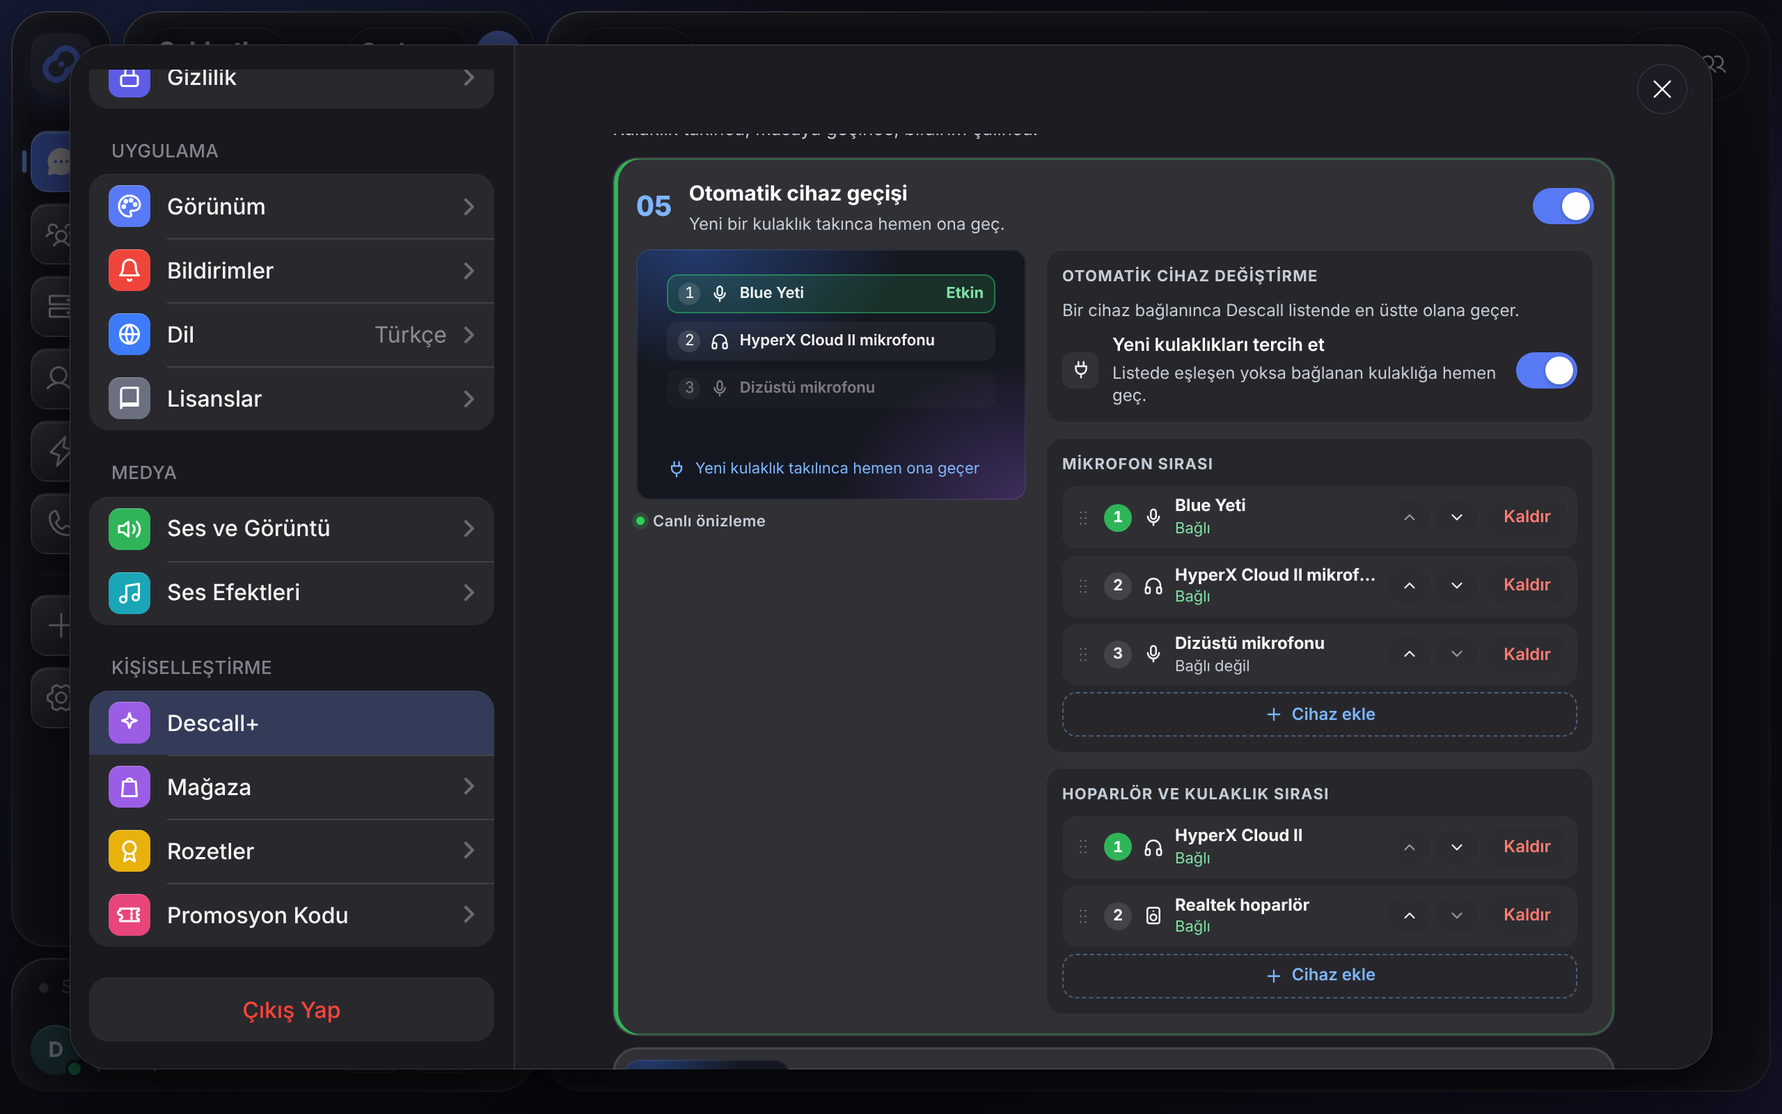
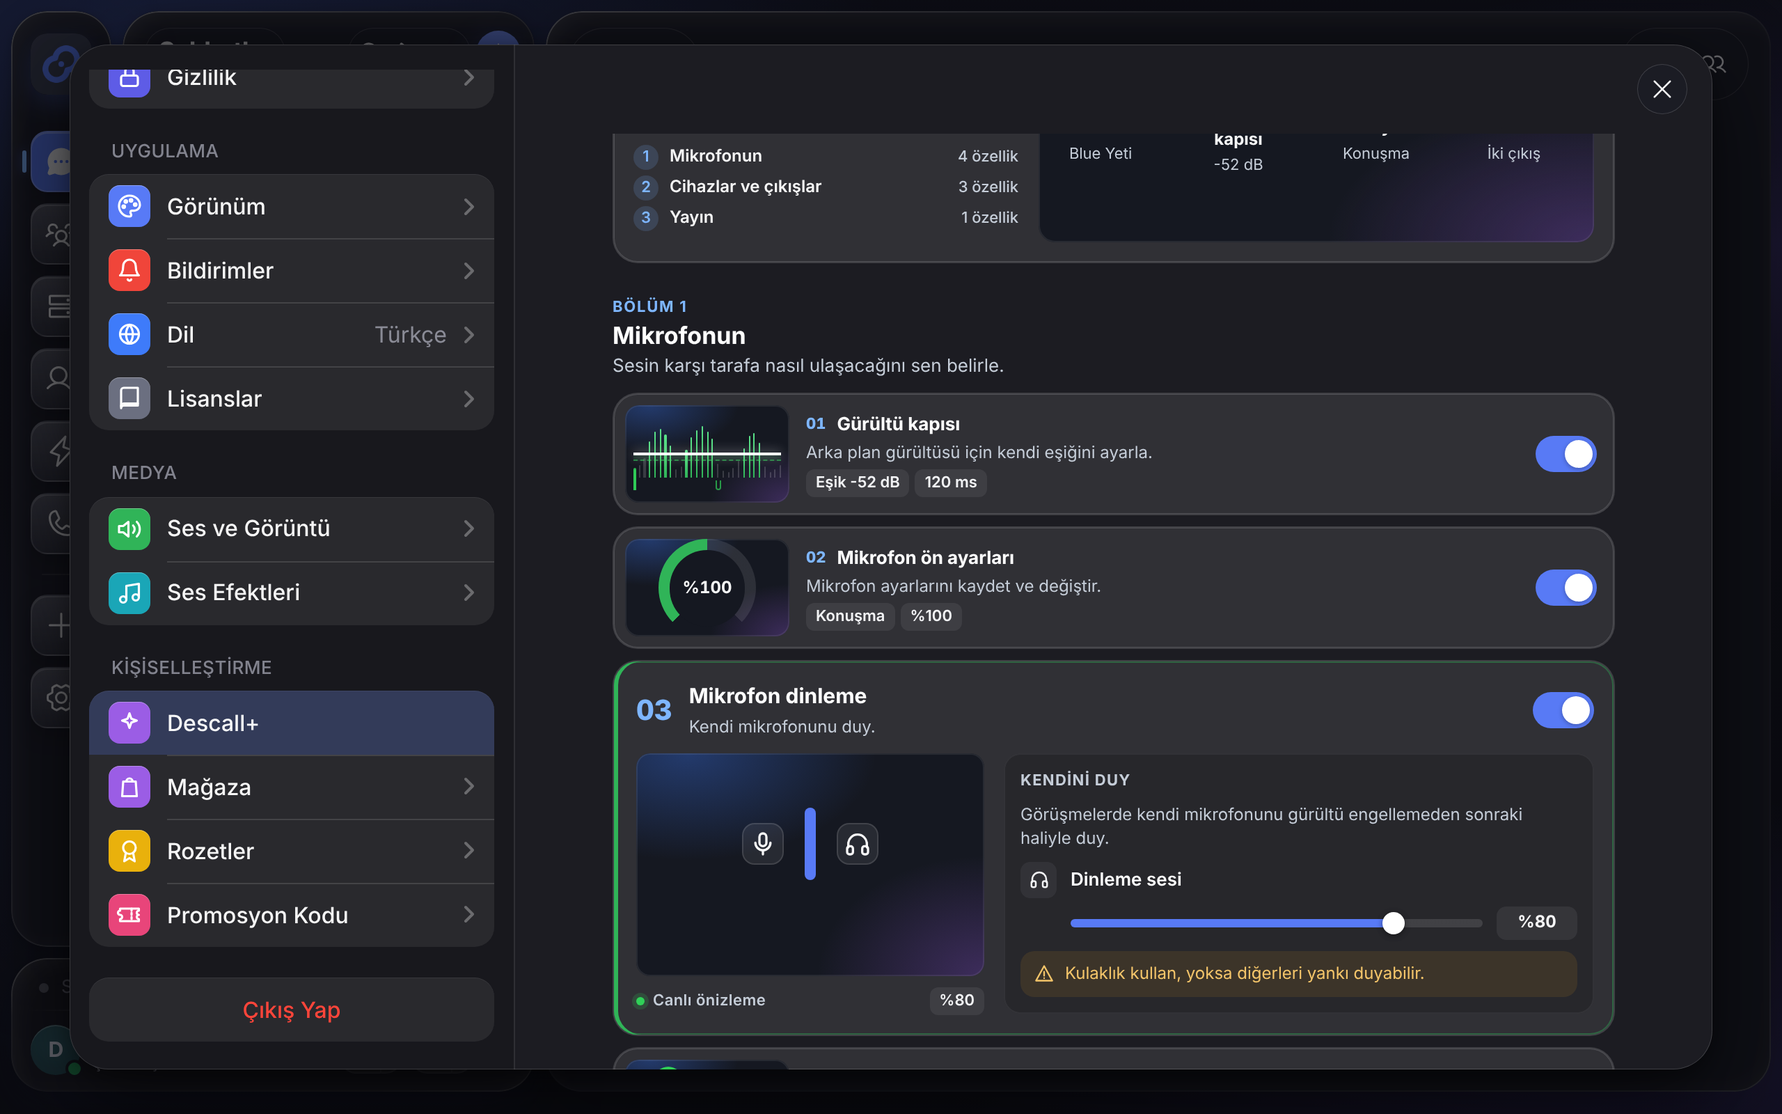
Category page drafts: work in progress
Claude-Session: https://claude.ai/code/session_016gMrsdLKA7sFZHPfPUvafD

diff --git a/docs/design/premium-settings/category-drafts/drafts-inject.js b/docs/design/premium-settings/category-drafts/drafts-inject.js
@@ -124,9 +124,9 @@
     custom_layouts: { enabled: true, active: 'oyun' },
     noise_gate: { enabled: true, thresholdDb: -52, hysteresisDb: 10, holdMs: 120, testing: true },
     mic_presets: { enabled: true, gain: 100, active: 'voice' },
-    mic_monitor: { enabled: false, volume: 80 },
+    mic_monitor: { enabled: true, volume: 80 },
     voice_activity_monitor: { enabled: true },
-    auto_device_switch: { enabled: true, headsetFirst: true },
+    auto_device_switch: { enabled: false, headsetFirst: true },
     audio_routing: { enabled: true, callOutput: 'hyperx', notificationOutput: 'realtek' },
     audio_device_profiles: { enabled: true, active: 'masa', newInput: 'yeti', newOutput: 'hyperx', newPreset: 'stream' },
     stream_audio_control: { enabled: true, sendVolume: 100, sendMuted: false, viewVolume: 80, viewMuted: false },
@@ -146,7 +146,7 @@
   const on = (k) => S[k].enabled;
   const tg = (k, p, val, ds) => `<button class="us-toggle${val ? ' active' : ''}" type="button" role="switch" aria-checked="${val}" data-tg="${k}.${p}" data-s="${ds || `${k}.${p}`}"><span class="us-toggle-knob"></span></button>`;
   const grp = (title, body, extra = '') => `<div class="dpc-g ${extra}"><div class="dpc-gt">${title}</div>${body}</div>`;
-  const row = (label, desc, ctrl, icon) => `<div class="dpc-r${ctrl.includes('dpc-sl') ? ' st' : ''}">${icon ? `<span class="dpc-ri">${svg(icon, 15)}</span>` : ''}<div class="dpc-rc"><b>${label}</b>${desc ? `<small>${desc}</small>` : ''}</div><div class="dpc-rx">${ctrl}</div></div>`;
+  const row = (label, desc, ctrl, icon) => `<div class="dpc-r${ctrl.includes('dpc-sl') ? ' dpc-st' : ''}">${icon ? `<span class="dpc-ri">${svg(icon, 15)}</span>` : ''}<div class="dpc-rc"><b>${label}</b>${desc ? `<small>${desc}</small>` : ''}</div><div class="dpc-rx">${ctrl}</div></div>`;
   const hint = (t, ds, tone = '') => `<p class="dpc-hint ${tone}" ${ds ? `data-s="${ds}"` : ''}>${svg(tone === 'warn' ? 'warn' : tone === 'ok' ? 'check' : 'info', 14)}<span>${t}</span></p>`;
   const btn = (label, kind = 'ghost', ds = '', icon = '') => `<button type="button" class="us-btn ${kind} sm" ${ds ? `data-s="${ds}"` : ''}>${icon ? svg(icon, 14) : ''}${label}</button>`;
   const field = (ph, ds) => `<span class="dpc-in" data-s="${ds}">${ph}</span>`;
@@ -462,7 +462,7 @@
         if (k === open) {
           return `<article class="us-card dpc-a-card is-open" data-f="${k}" data-open-card>
             <header class="dpc-a-oh">${ico(k, cat)}<div class="dpc-tt2"><b>${F[k].name}</b>${ultra(k)}<small>${F[k].desc}</small></div>${enabled(k)}<button type="button" class="dpc-x" data-open="" aria-label="Kapat">${svg('up', 16)}</button></header>
-            <div class="dpc-a-body"><div class="dpc-a-pv">${pv(k, 'lg')}${liveCap}</div>${groups(k)}</div></article>`;
+            <div class="dpc-a-body"><div class="dpc-a-pv">${pv(k, 'lg')}<div class="dpc-c-cap">${liveCap}<span class="dpc-chipline">${chips(k)}</span></div></div>${groups(k)}</div></article>`;
         }
         return `<article class="us-card dpc-a-card${on(k) ? '' : ' is-offc'}" data-f="${k}"><button type="button" class="dpc-a-hit" data-open="${k}">${pv(k, 'sm')}</button>
           <div class="dpc-a-meta"><div class="dpc-tt2"><b>${F[k].name}</b>${ultra(k)}</div>${enabled(k)}</div>
@@ -499,7 +499,7 @@
         </article>`;
       const before = keys.slice(0, keys.indexOf(open));
       const after = keys.slice(keys.indexOf(open) + 1);
-      return `<div class="dpc-c-head">${head(cat)}<span class="dpc-c-count"><b class="tnum">${keys.filter(on).length}</b>/${keys.length} özellik açık</span></div>
+      return `<div class="dpc-c-head">${head(cat)}</div>
         ${before.length ? `<div class="dpc-c-grid">${before.map(tile).join('')}</div>` : ''}${stage(open)}
         <h4 class="us-section-label dpc-c-lab">Diğer ${c.name.toLocaleLowerCase('tr')} özellikleri</h4><div class="dpc-c-grid">${after.map(tile).join('')}</div>`;
     },
@@ -516,10 +516,10 @@
           const gs = G[k](k);
           return `<article class="dpc-d-open" data-f="${k}" data-open-card>
             <div class="us-card dpc-d-hero">${pv(k, 'lg')}<div class="dpc-d-ov"><div>${ico(k, cat)}<b>${F[k].name}</b>${ultra(k)}<small>${F[k].desc}</small></div>${enabled(k)}</div>${liveCap}<button type="button" class="dpc-x" data-open="" aria-label="Kapat">${svg('x', 15)}</button></div>
-            ${gs.map((g) => `<div class="us-card dpc-d-gt${on(k) ? '' : ' is-off'}">${g}</div>`).join('')}
+            <div class="dpc-d-stack">${gs.map((g) => `<div class="us-card dpc-d-gt${on(k) ? '' : ' is-off'}">${g}</div>`).join('')}</div>
           </article>`;
         }
-        return `<article class="us-card dpc-d-tile ${SIZE[k] || ''}${on(k) ? '' : ' is-offc'}" data-f="${k}"><button type="button" class="dpc-d-hit" data-open="${k}">${pv(k, (SIZE[k] || '').includes('h2') ? 'md' : 'sm')}</button>
+        return `<article class="us-card dpc-d-tile ${SIZE[k] || ''}${on(k) ? '' : ' is-offc'}" data-f="${k}"><button type="button" class="dpc-d-hit" data-open="${k}">${pv(k, 'sm')}</button>
           <div class="dpc-d-cap"><div class="dpc-tt2"><b>${F[k].name}</b>${ultra(k)}<span class="dpc-chipline">${chips(k)}</span></div>${enabled(k)}</div></article>`;
       };
       return `${head(cat)}<section class="us-section"><div class="dpc-d-grid">${CAT[cat].keys.map(tile).join('')}</div></section>`;
@@ -536,7 +536,7 @@
         if (k === open) {
           return `<article class="us-card dpc-e-card is-open c-${c.color}" data-f="${k}" data-open-card>
             <div class="dpc-e-oh"><span class="dpc-e-num">${num}</span><div class="dpc-tt2"><b>${F[k].name}</b>${ultra(k)}<small>${F[k].desc}</small></div>${enabled(k)}</div>
-            <div class="dpc-e-body"><div class="dpc-e-pv">${pv(k, 'lg')}${liveCap}</div>${groups(k)}</div></article>`;
+            <div class="dpc-e-body"><div class="dpc-e-pv">${pv(k, 'lg')}<div class="dpc-c-cap">${liveCap}<span class="dpc-chipline">${chips(k)}</span></div></div>${groups(k)}</div></article>`;
         }
         return `<article class="us-card dpc-e-card${on(k) ? '' : ' is-offc'}" data-f="${k}"><button type="button" class="dpc-e-hit" data-open="${k}">${pv(k, 'xs')}</button>
           <div class="dpc-e-mid" data-open="${k}"><div class="dpc-tt2"><span class="dpc-e-num sm">${num}</span><b>${F[k].name}</b>${ultra(k)}</div><small>${F[k].desc}</small><span class="dpc-chipline">${chips(k)}</span></div>${enabled(k)}</article>`;
@@ -547,7 +547,8 @@
             <div style="position:absolute;right:12%;bottom:17%;width:24%">${callCard('mini')}</div><div class="dpc-dock"><i></i><i></i><i class="ds"><b>3</b></i><i></i></div>
             ${[['01', 'right:36%;bottom:30%'], ['03', 'left:68%;top:3%'], ['05', 'left:56%;top:40%'], ['09', 'left:3%;top:3%'], ['11', 'right:10%;top:40%'], ['08', 'left:52%;bottom:2%']].map(([t, st]) => `<span class="dpc-e-pin" style="${st}">${t}</span>`).join('')}</div>`
         : `<div class="dpc-e-scene audio"><div class="chain">${[['mic', 'Mikrofon', 'Blue Yeti'], ['gate', 'Gürültü kapısı', `${S.noise_gate.thresholdDb} dB`], ['sliders', 'Ön ayar', 'Konuşma'], ['route', 'Yönlendirme', 'İki çıkış'], ['head', 'Kulaklık', 'HyperX Cloud II']].map(([ic, a, b], i) => `<div class="cn"><span class="dpc-e-pin st">${String([0, 1, 2, 6, 5][i] + 1).padStart(2, '0')}</span><span class="ci">${svg(ic, 18)}</span><b>${a}</b><small>${b}</small></div>`).join(`<span class="cw">${Array.from({ length: 7 }, (_, j) => `<i style="height:${[30, 70, 45, 90, 55, 75, 35][j]}%"></i>`).join('')}</span>`)}</div></div>`;
-      return `<section class="us-card dpc-e-hero c-${c.color}"><div class="dpc-e-ht"><span class="pp-ico c-${c.color}">${svg(c.icon, 20)}</span><div><h2>${c.name}</h2><p>${c.desc}</p></div><span class="dpc-e-cnt"><b class="tnum">${c.keys.filter(on).length}</b> / ${c.keys.length} açık</span></div>${hero}</section>
+      return `<section class="us-card dpc-e-hero c-${c.color}"><div class="dpc-e-ht"><span class="pp-ico c-${c.color}">${svg(c.icon, 20)}</span><div><h2>${c.name}</h2><p>${c.desc}</p></div><span class="dpc-e-cnt"><b class="tnum">${c.keys.filter(on).length}</b> / ${c.keys.length} açık</span>
+        <ol class="dpc-e-toc">${c.chapters.map(([t, , ks], i) => `<li><span>${i + 1}</span>${t}<small>${ks.length} özellik</small></li>`).join('')}</ol></div>${hero}</section>
         ${c.chapters.map(([t, lead, ks], ci) => `<section class="dpc-e-ch"><div class="dpc-e-cht"><span>Bölüm ${ci + 1}</span><h3>${t}</h3><p>${lead}</p></div><div class="dpc-e-list">${ks.map(card).join('')}</div></section>`).join('')}`;
     },
   };
@@ -593,10 +594,10 @@
   .dpc-ib{padding:6px!important;width:30px}
   .dpc-danger{color:#ff7b72!important}
   .dpc-sl{display:inline-flex;align-items:center;gap:10px}
-  .dpc-r.st{flex-wrap:wrap;row-gap:6px}
-  .dpc-r.st>.dpc-rx{flex:1 1 100%;padding-left:0}
-  .dpc-r.st>.dpc-ri+.dpc-rc+.dpc-rx{padding-left:36px}
-  .dpc-r.st .dpc-sl{flex:1}
+  .dpc-r.dpc-st{flex-wrap:wrap;row-gap:6px}
+  .dpc-r.dpc-st>.dpc-rx{flex:1 1 100%;padding-left:0}
+  .dpc-r.dpc-st>.dpc-ri+.dpc-rc+.dpc-rx{padding-left:36px}
+  .dpc-r.dpc-st .dpc-sl{flex:1}
   .dpc-root input.dpc-range{-webkit-appearance:none!important;appearance:none!important;flex:1;min-width:90px;width:auto;height:6px!important;min-height:0!important;padding:0!important;border:0!important;border-radius:3px!important;margin:0!important;box-shadow:none!important;outline:0;background:linear-gradient(90deg,var(--primary,#587af5) var(--p),rgba(255,255,255,.12) var(--p))!important;cursor:pointer}
   .dpc-root input.dpc-range::-webkit-slider-runnable-track{background:transparent!important;border:0!important;height:6px;box-shadow:none!important}
   .dpc-root input.dpc-range::-webkit-slider-thumb{-webkit-appearance:none!important;appearance:none!important;width:16px;height:16px;margin-top:-5px;border:0!important;border-radius:50%;background:#fff!important;box-shadow:0 1px 4px rgba(0,0,0,.45)!important}
@@ -783,7 +784,7 @@
   .pv-gate .lg i{width:9px;height:9px;border-radius:2px;background:rgba(255,255,255,.2)}
   .pv-gate .lg i.hb{background:none;box-shadow:inset 0 0 0 1.5px rgba(48,209,88,.7)}.pv-gate .lg i.pass{background:#30b458}.pv-gate .lg i.hold{background:rgba(48,180,88,.45)}
   .pv-presets{display:flex;align-items:center;justify-content:center;gap:6%}
-  .pv-presets .dial{width:40cqh;max-width:120px;aspect-ratio:1;border-radius:50%;background:conic-gradient(from 225deg,#30b458 0 var(--a),rgba(255,255,255,.1) var(--a) 270deg,transparent 270deg);display:grid;place-items:center;flex:none}
+  .pv-presets .dial{width:clamp(70px,62cqh,130px);aspect-ratio:1;border-radius:50%;background:conic-gradient(from 225deg,#30b458 0 var(--a),rgba(255,255,255,.1) var(--a) 270deg,transparent 270deg);display:grid;place-items:center;flex:none}
   .pv-presets .dial .in{width:78%;aspect-ratio:1;border-radius:50%;background:#151821;display:flex;flex-direction:column;align-items:center;justify-content:center}
   .pv-presets .dial b{font-size:var(--fs-20)}
   .pv-presets .dial small{font-size:var(--fs-11);color:var(--text-muted)}
@@ -815,7 +816,7 @@
   .pv-route .wires{position:absolute;inset:0;width:100%;height:100%}
   .pv-route .wires path{fill:none;stroke:#30b458;stroke-width:1.2;vector-effect:non-scaling-stroke;stroke-width:2}
   .pv-route .wires path.b{stroke:#f0b232}
-  .pv-route .src,.pv-route .dst{position:absolute;display:flex;align-items:center;gap:6px;padding:6px 9px;border-radius:9px;background:#232633;box-shadow:inset 0 0 0 1px rgba(255,255,255,.12);font-size:var(--fs-11);font-weight:600;white-space:nowrap;max-width:36%}
+  .pv-route .src,.pv-route .dst{position:absolute;display:flex;align-items:center;gap:6px;padding:6px 9px;border-radius:9px;background:#232633;box-shadow:inset 0 0 0 1px rgba(255,255,255,.12);font-size:var(--fs-11);font-weight:600;white-space:nowrap;max-width:45%}
   .pv-route .src span,.pv-route .dst span{overflow:hidden;text-overflow:ellipsis}
   .pv-route .src{left:4%}.pv-route .dst{right:4%}
   .pv-route .src svg,.pv-route .dst svg{color:#30b458;flex:none}
@@ -896,7 +897,7 @@
   .dpc-c-stage{display:grid;grid-template-columns:minmax(0,1.05fr) minmax(0,1fr);gap:0;margin:0;padding:0;background:radial-gradient(600px 300px at 0% 0%,rgba(62,123,250,.22),transparent 70%),var(--surface-0);box-shadow:inset 0 0 0 1px rgba(88,122,245,.35)}
   .dpc-c-stage.c-green{background:radial-gradient(600px 300px at 0% 0%,rgba(48,180,88,.2),transparent 70%),var(--surface-0);box-shadow:inset 0 0 0 1px rgba(48,180,88,.35)}
   .dpc-c-left{display:flex;flex-direction:column;gap:10px;padding:16px;border-right:1px solid var(--border-2)}
-  .dpc-c-left .dpc-pv{height:250px}
+  .dpc-c-left .dpc-pv{flex:1;min-height:250px}
   .dpc-c-cap{display:flex;align-items:center;justify-content:space-between;gap:8px}
   .dpc-c-right{display:flex;flex-direction:column;gap:6px;padding:16px}
   .dpc-c-top{display:flex;align-items:center;justify-content:space-between}
@@ -913,47 +914,53 @@
 
   /* D: bento */
   .dpc-d-grid{display:grid;grid-template-columns:repeat(4,minmax(0,1fr));grid-auto-rows:118px;gap:10px;grid-auto-flow:dense}
-  .dpc-d-tile{position:relative;margin:0;padding:0;overflow:hidden}
+  .dpc-d-tile{position:relative;margin:0;padding:6px 6px 0;overflow:hidden;display:flex;flex-direction:column}
   .dpc-d-tile.w2{grid-column:span 2}.dpc-d-tile.h2{grid-row:span 2}
-  .dpc-d-hit{position:absolute;inset:0;border:0;padding:0;background:none;cursor:pointer}
-  .dpc-d-hit .dpc-scr{border-radius:0}
-  .dpc-d-cap{position:absolute;left:0;right:0;bottom:0;display:flex;align-items:flex-end;gap:8px;padding:22px 10px 9px;background:linear-gradient(180deg,transparent,rgba(12,13,19,.88) 55%)}
-  .dpc-d-cap .dpc-tt2>b{font-size:var(--fs-13);color:#fff}
-  .dpc-d-cap .us-toggle{transform:scale(.82);transform-origin:right bottom}
-  .dpc-d-tile:not(.h2):not(.w2) .dpc-chipline{display:none}
-  .dpc-d-open{grid-column:1/-1;grid-row:span 4;display:grid;grid-template-columns:repeat(4,minmax(0,1fr));grid-auto-rows:minmax(0,auto);gap:10px}
-  .dpc-d-hero{position:relative;grid-column:span 2;grid-row:span 2;margin:0;min-height:300px;overflow:hidden;box-shadow:inset 0 0 0 1px rgba(88,122,245,.5)}
-  .dpc-d-hero>.dpc-pv{position:absolute;inset:0}
-  .dpc-d-hero .dpc-scr{border-radius:0}
-  .dpc-d-ov{position:absolute;left:0;right:0;bottom:0;display:flex;align-items:flex-end;gap:10px;padding:40px 14px 12px;background:linear-gradient(180deg,transparent,rgba(12,13,19,.92) 50%)}
+  .dpc-d-hit{position:relative;flex:1;min-height:0;border:0;padding:0;background:none;cursor:pointer}
+  .dpc-d-cap{display:flex;align-items:center;gap:8px;padding:7px 6px 8px}
+  .dpc-d-cap .dpc-tt2{flex-wrap:nowrap;overflow:hidden}
+  .dpc-d-cap .dpc-tt2>b{font-size:var(--fs-13);white-space:nowrap;overflow:hidden;text-overflow:ellipsis}
+  .dpc-d-cap .dpc-chipline{flex-wrap:nowrap}
+  .dpc-d-cap .us-toggle{transform:scale(.8);transform-origin:right center;flex:none}
+  .dpc-d-tile:not(.w2) .dpc-chipline,.dpc-d-tile:not(.w2) .pp-pill{display:none}
+  .dpc-d-open{grid-column:1/-1;grid-row:span 4;display:grid;grid-template-columns:repeat(2,minmax(0,1fr));gap:10px;align-items:start}
+  .dpc-d-stack{display:flex;flex-direction:column;gap:10px;min-width:0}
+  .dpc-d-hero{position:relative;margin:0;height:340px;overflow:hidden;display:flex;flex-direction:column;padding:6px;box-shadow:inset 0 0 0 1px rgba(88,122,245,.5)}
+  .dpc-d-hero>.dpc-pv{flex:1;min-height:0}
+  .dpc-d-ov{display:flex;align-items:flex-end;gap:10px;padding:10px 8px 6px}
   .dpc-d-ov>div{flex:1;display:flex;flex-wrap:wrap;align-items:center;gap:4px 8px}
-  .dpc-d-ov b{font-size:var(--fs-17);color:#fff}
-  .dpc-d-ov small{flex-basis:100%;font-size:var(--fs-12);color:rgba(255,255,255,.7)}
-  .dpc-d-hero>.dpc-live{position:absolute;left:12px;top:10px;padding:3px 8px;border-radius:6px;background:rgba(10,12,18,.6);color:#fff}
-  .dpc-d-hero>.dpc-x{position:absolute;right:10px;top:10px;background:rgba(10,12,18,.6)}
-  .dpc-d-gt{grid-column:span 2;margin:0;padding:12px}
+  .dpc-d-ov b{font-size:var(--fs-17);color:var(--text-0)}
+  .dpc-d-ov small{flex-basis:100%;font-size:var(--fs-12);color:var(--text-muted)}
+  .dpc-d-hero>.dpc-live{position:absolute;left:14px;top:14px;padding:3px 8px;border-radius:6px;background:rgba(10,12,18,.6);color:#fff}
+  .dpc-d-hero>.dpc-x{position:absolute;right:14px;top:14px;color:#fff;background:rgba(10,12,18,.6)}
+  .dpc-d-gt{margin:0;padding:12px}
   .dpc-d-gt .dpc-g{padding:0;background:none;box-shadow:none}
   .dpc-d-gt.is-off{opacity:.55}
 
   /* E: story */
-  .dpc-e-hero{margin:0;padding:16px;display:flex;flex-direction:column;gap:14px;background:radial-gradient(500px 240px at 100% 0%,rgba(62,123,250,.2),transparent 70%),var(--surface-0)}
+  .dpc-e-hero{margin:0;padding:14px;display:grid;grid-template-columns:minmax(0,.9fr) minmax(0,1.3fr);gap:14px;align-items:center;background:radial-gradient(500px 240px at 100% 0%,rgba(62,123,250,.2),transparent 70%),var(--surface-0)}
   .dpc-e-hero.c-green{background:radial-gradient(500px 240px at 100% 0%,rgba(48,180,88,.2),transparent 70%),var(--surface-0)}
-  .dpc-e-ht{display:flex;align-items:center;gap:12px}
+  .dpc-e-ht{display:flex;flex-wrap:wrap;align-items:center;gap:8px 12px}
+  .dpc-e-toc{flex-basis:100%;list-style:none;margin:4px 0 0;padding:0;display:flex;flex-direction:column;gap:4px}
+  .dpc-e-toc li{display:flex;align-items:center;gap:8px;font-size:var(--fs-12);font-weight:600}
+  .dpc-e-toc li span{width:18px;height:18px;border-radius:50%;display:grid;place-items:center;font-size:var(--fs-11);background:rgba(126,182,255,.16);color:var(--text-link,#7eb6ff)}
+  .dpc-e-toc li small{margin-left:auto;font-weight:500;color:var(--text-muted);font-size:var(--fs-11)}
   .dpc-e-ht .pp-ico{width:40px;height:40px;border-radius:11px}
   .dpc-e-ht h2{margin:0;font-size:var(--fs-20);font-weight:700}
   .dpc-e-ht p{margin:2px 0 0;font-size:var(--fs-13);color:var(--text-muted)}
-  .dpc-e-ht>div{flex:1}
+  .dpc-e-ht>div{flex:1;min-width:0}
+  .dpc-e-ht .dpc-e-cnt{flex-basis:100%}
   .dpc-e-cnt{font-size:var(--fs-12);color:var(--text-muted)}.dpc-e-cnt b{font-size:var(--fs-20);color:var(--text-0)}
-  .dpc-e-scene{position:relative;height:170px;border-radius:12px;overflow:hidden;container-type:size;background:radial-gradient(90% 80% at 15% 0%,rgba(62,123,250,.35),transparent 60%),radial-gradient(80% 90% at 100% 100%,rgba(155,93,229,.3),transparent 60%),#151821;box-shadow:inset 0 0 0 1px rgba(255,255,255,.08)}
+  .dpc-e-scene{position:relative;height:190px;border-radius:12px;overflow:hidden;container-type:size;background:radial-gradient(90% 80% at 15% 0%,rgba(62,123,250,.35),transparent 60%),radial-gradient(80% 90% at 100% 100%,rgba(155,93,229,.3),transparent 60%),#151821;box-shadow:inset 0 0 0 1px rgba(255,255,255,.08)}
   .dpc-e-scene .dpc-call{width:100%;min-width:0}
   .dpc-e-pin{position:absolute;z-index:9;min-width:24px;height:20px;padding:0 6px;border-radius:10px;display:grid;place-items:center;font-size:var(--fs-11);font-weight:800;color:#fff;background:#3e7bfa;box-shadow:0 0 0 3px rgba(62,123,250,.3)}
   .dpc-e-scene.audio{display:flex;align-items:center;justify-content:center;padding:0 14px}
-  .dpc-e-scene .chain{display:flex;align-items:center;gap:8px;width:100%}
-  .dpc-e-scene .cn{position:relative;flex:none;width:92px;display:flex;flex-direction:column;align-items:center;gap:3px;text-align:center}
-  .dpc-e-scene .ci{width:46px;height:46px;border-radius:14px;display:grid;place-items:center;background:rgba(48,180,88,.18);box-shadow:inset 0 0 0 1px rgba(48,196,108,.45);color:#7fe0a3}
+  .dpc-e-scene .chain{display:flex;align-items:center;gap:2px;width:100%}
+  .dpc-e-scene .cn{position:relative;flex:none;width:62px;display:flex;flex-direction:column;align-items:center;gap:3px;text-align:center}
+  .dpc-e-scene .ci{width:40px;height:40px;border-radius:14px;display:grid;place-items:center;background:rgba(48,180,88,.18);box-shadow:inset 0 0 0 1px rgba(48,196,108,.45);color:#7fe0a3}
   .dpc-e-scene .cn b{font-size:var(--fs-12)}.dpc-e-scene .cn small{font-size:var(--fs-11);color:var(--text-muted)}
-  .dpc-e-pin.st{position:absolute;top:-10px;right:14px;background:#30b458;box-shadow:0 0 0 3px rgba(48,180,88,.3)}
-  .dpc-e-scene .cw{flex:1;display:flex;align-items:center;justify-content:center;gap:3px;height:28px;margin-bottom:26px}
+  .dpc-e-pin.st{position:absolute;top:-12px;right:0;background:#30b458;box-shadow:0 0 0 3px rgba(48,180,88,.3)}
+  .dpc-e-scene .cw{flex:1;display:flex;align-items:center;justify-content:center;gap:2px;height:28px;margin-bottom:26px}
   .dpc-e-scene .cw i{width:3px;border-radius:2px;background:rgba(127,224,163,.7)}
   .dpc-e-ch{display:flex;flex-direction:column;gap:10px}
   .dpc-e-cht span{font-size:var(--fs-11);font-weight:700;letter-spacing:.08em;text-transform:uppercase;color:var(--text-link,#7eb6ff)}
@@ -971,9 +978,10 @@
   .dpc-e-card.is-open.c-green{box-shadow:inset 3px 0 0 #30b458,inset 0 0 0 1px rgba(48,180,88,.4)}
   .dpc-e-oh{display:flex;align-items:center;gap:12px;padding:14px 14px 10px 16px}
   .dpc-e-oh .dpc-e-num{font-size:var(--fs-20)}
-  .dpc-e-body{display:grid;grid-template-columns:280px minmax(0,1fr);gap:14px;padding:0 14px 14px 16px}
+  .dpc-e-body{display:grid;grid-template-columns:250px minmax(0,1fr);gap:14px;padding:0 14px 14px 16px}
   .dpc-e-pv{display:flex;flex-direction:column;gap:8px}
-  .dpc-e-pv .dpc-pv{height:180px}
+  .dpc-e-pv .dpc-pv{height:160px}
+  .dpc-e .dpc-corner{max-width:200px}
   `;
 
   /* ------------------------------------------------------------- render */
@@ -1029,7 +1037,7 @@
     b: { windows: 'screen_edge_actions', audio: 'mic_presets' },
     c: { windows: 'mini_mode', audio: 'noise_gate' },
     d: { windows: 'always_on_top', audio: 'stream_audio_control' },
-    e: { windows: 'mini_mode', audio: 'auto_device_switch' },
+    e: { windows: 'mini_mode', audio: 'mic_monitor' },
   };
 
   /* Scroll so the open card is fully in view with as much of the page above it as fits. */
